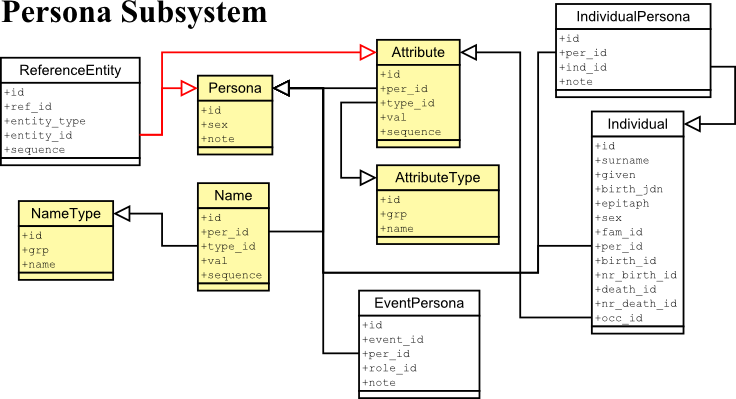
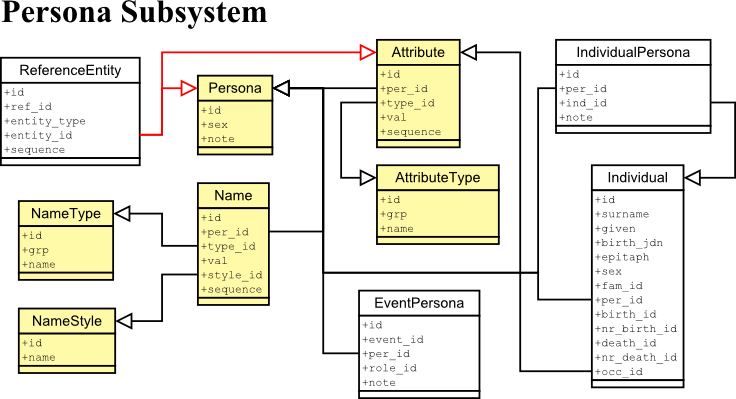
Updated website/db pages for database version 0.0.8 modifications. Create missing db diagrams.
git-svn-id: https://svn.code.sf.net/p/thefamilypack/code/tfp/trunk@109 0b5b8454-fdc9-41d1-a9ee-242ce37e0c65

Changed region(s): [[0.6875, 0.0, 1.0, 0.9925], [0.0, 0.7519, 0.2188, 0.9624], [0.2188, 0.6617, 0.375, 0.782]]

diff --git a/website/db/dbdesign.htm b/website/db/dbdesign.htm
@@ -118,24 +118,24 @@
     <td><a href="#Individual">Individual</a></td>
     <td><a href="#IndividualPersona">IndividualPersona</a></td>
     <td><a href="#Name">Name</a></td>
+    <td><a href="#NameStyle">NameStyle</a></td>
     <td><a href="#NameType">NameType</a></td>
-    <td><a href="#Persona">Persona</a></td>
    </tr>
    <tr>
+    <td><a href="#Persona">Persona</a></td>
     <td><a href="#Place">Place</a></td>
     <td><a href="#PlacePart">PlacePart</a></td>
     <td><a href="#PlacePartType">PlacePartType</a></td>
     <td><a href="#Reference">Reference</a></td>
     <td><a href="#ReferenceEntity">ReferenceEntity</a></td>
-    <td><a href="#Repository">Repository</a></td>
    </tr>
    <tr>
+    <td><a href="#Repository">Repository</a></td>
     <td><a href="#RepositorySource">RepositorySource</a></td>
     <td><a href="#Researcher">Researcher</a></td>
     <td><a href="#Source">Source</a></td>
     <td><a href="#User">User</a></td>
     <td><a href="#Version">Version</a></td>
-    <td colspan='0' class="na">&nbsp;</td>
    </tr>
    <!-- <td colspan='0' class="na">&nbsp;</td> -->
   </table>
@@ -660,6 +660,23 @@
      <td>A number to show a name's position in the full name</td>
     </tr>
 
+    <tr id="NameStyle">
+     <td colspan="3" class="filler"><a href="#">Top</a></td>
+    </tr>
+    <tr class="head">
+     <td colspan="3"><b>NameStyle</b></td>
+    </tr>
+    <tr>
+     <td>id</td>
+     <td>Integer PK</td>
+     <td>Unique key identifying a NameStyle</td>
+    </tr>
+    <tr>
+     <td>name</td>
+     <td>Text</td>
+     <td>Name of the NameStyle, ie "Birth name" or "Married name"</td>
+    </tr>
+
     <tr id="NameType">
      <td colspan="3" class="filler"><a href="#">Top</a></td>
     </tr>
@@ -679,7 +696,7 @@
     <tr>
      <td>name</td>
      <td>Text</td>
-     <td>Name of the NameType, ie "Give name" or "Rank"</td>
+     <td>Name of the NameType, ie "Given name" or "Rank"</td>
     </tr>
 
     <tr id="Persona">
@@ -1008,6 +1025,11 @@
      <td>revision</td>
      <td>Integer</td>
      <td>The Revision number. Changes to this number are reversable (ie it does not need to match the program)</td>
+    </tr>
+    <tr>
+     <td>test</td>
+     <td>Integer</td>
+     <td>A Test number. Always zero in released code. Used only during development for testing changes.</td>
     </tr>
 
    </tbody>
